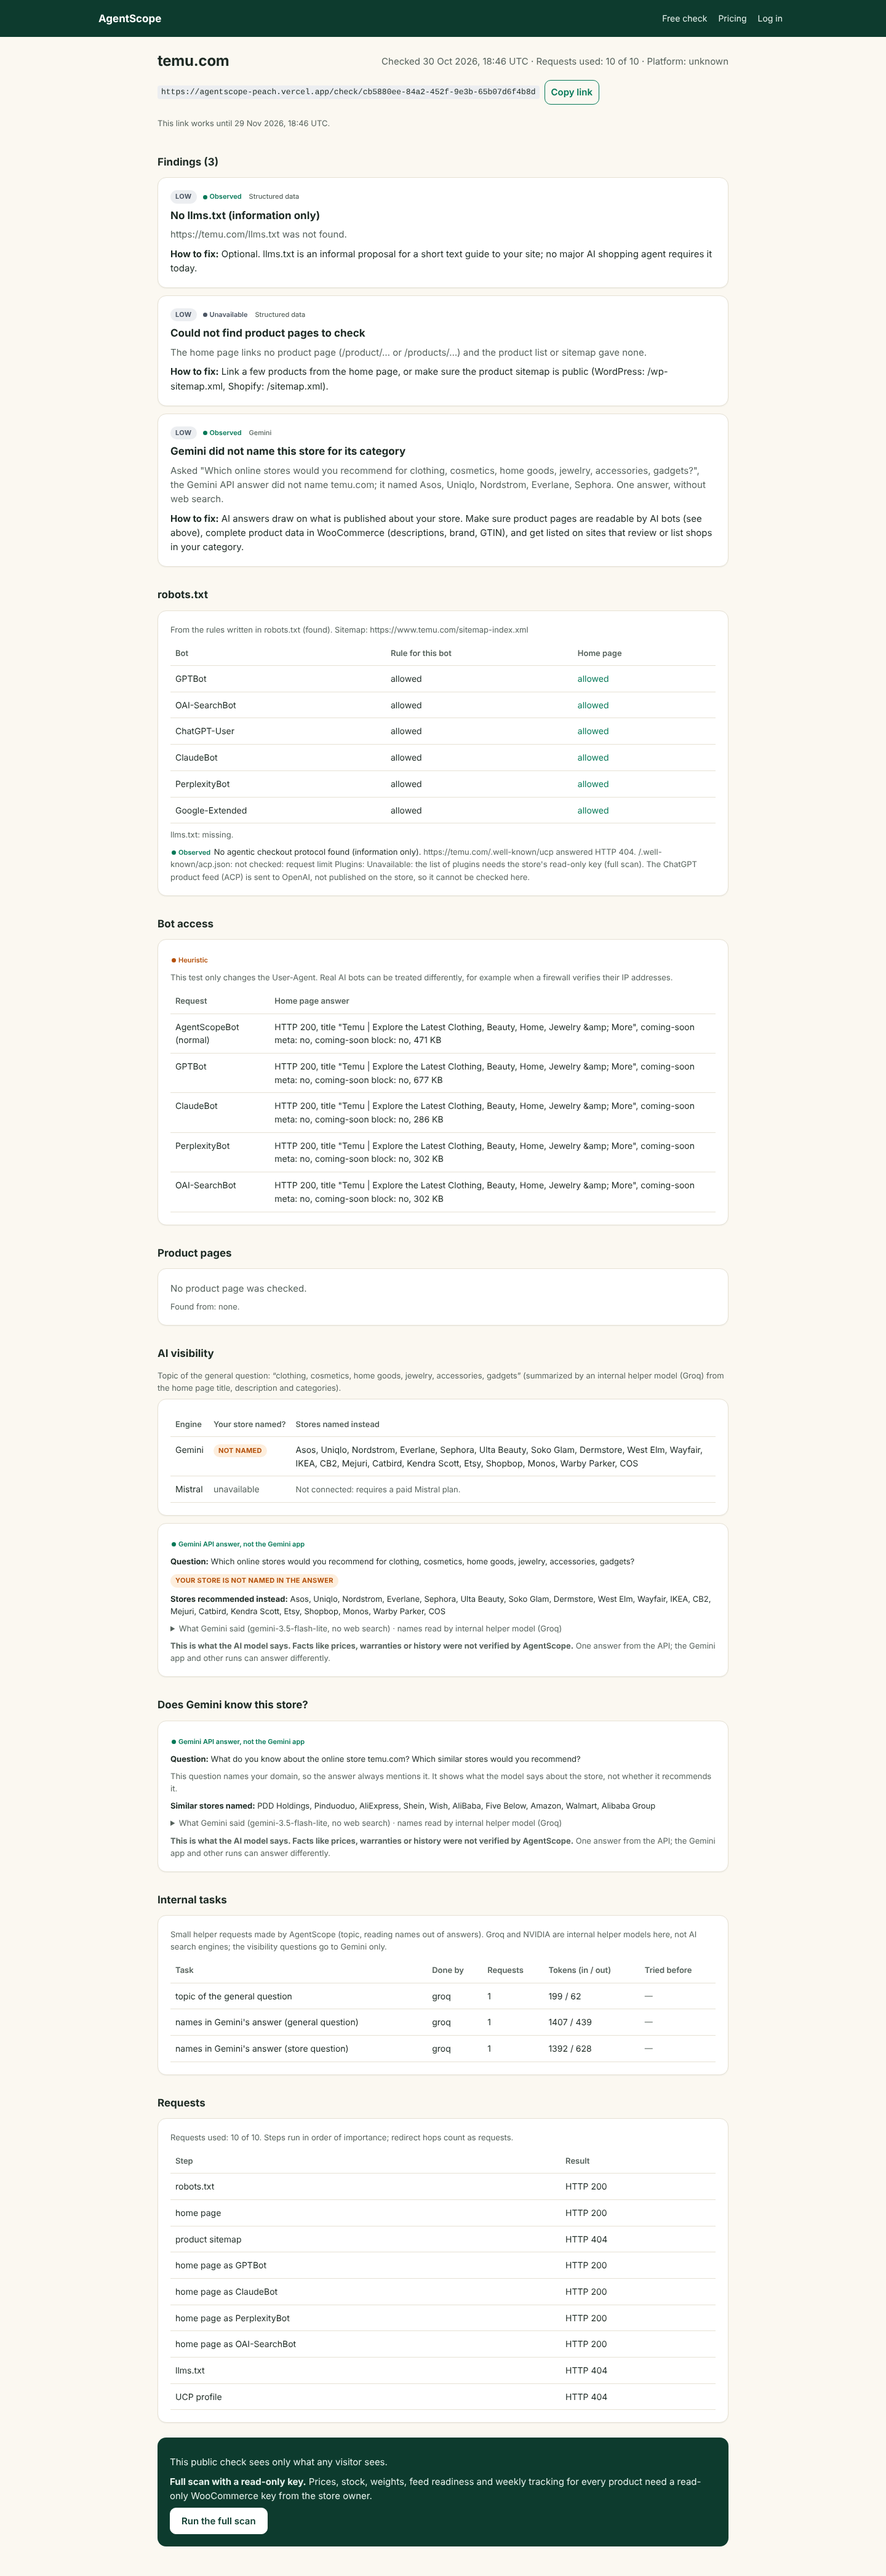
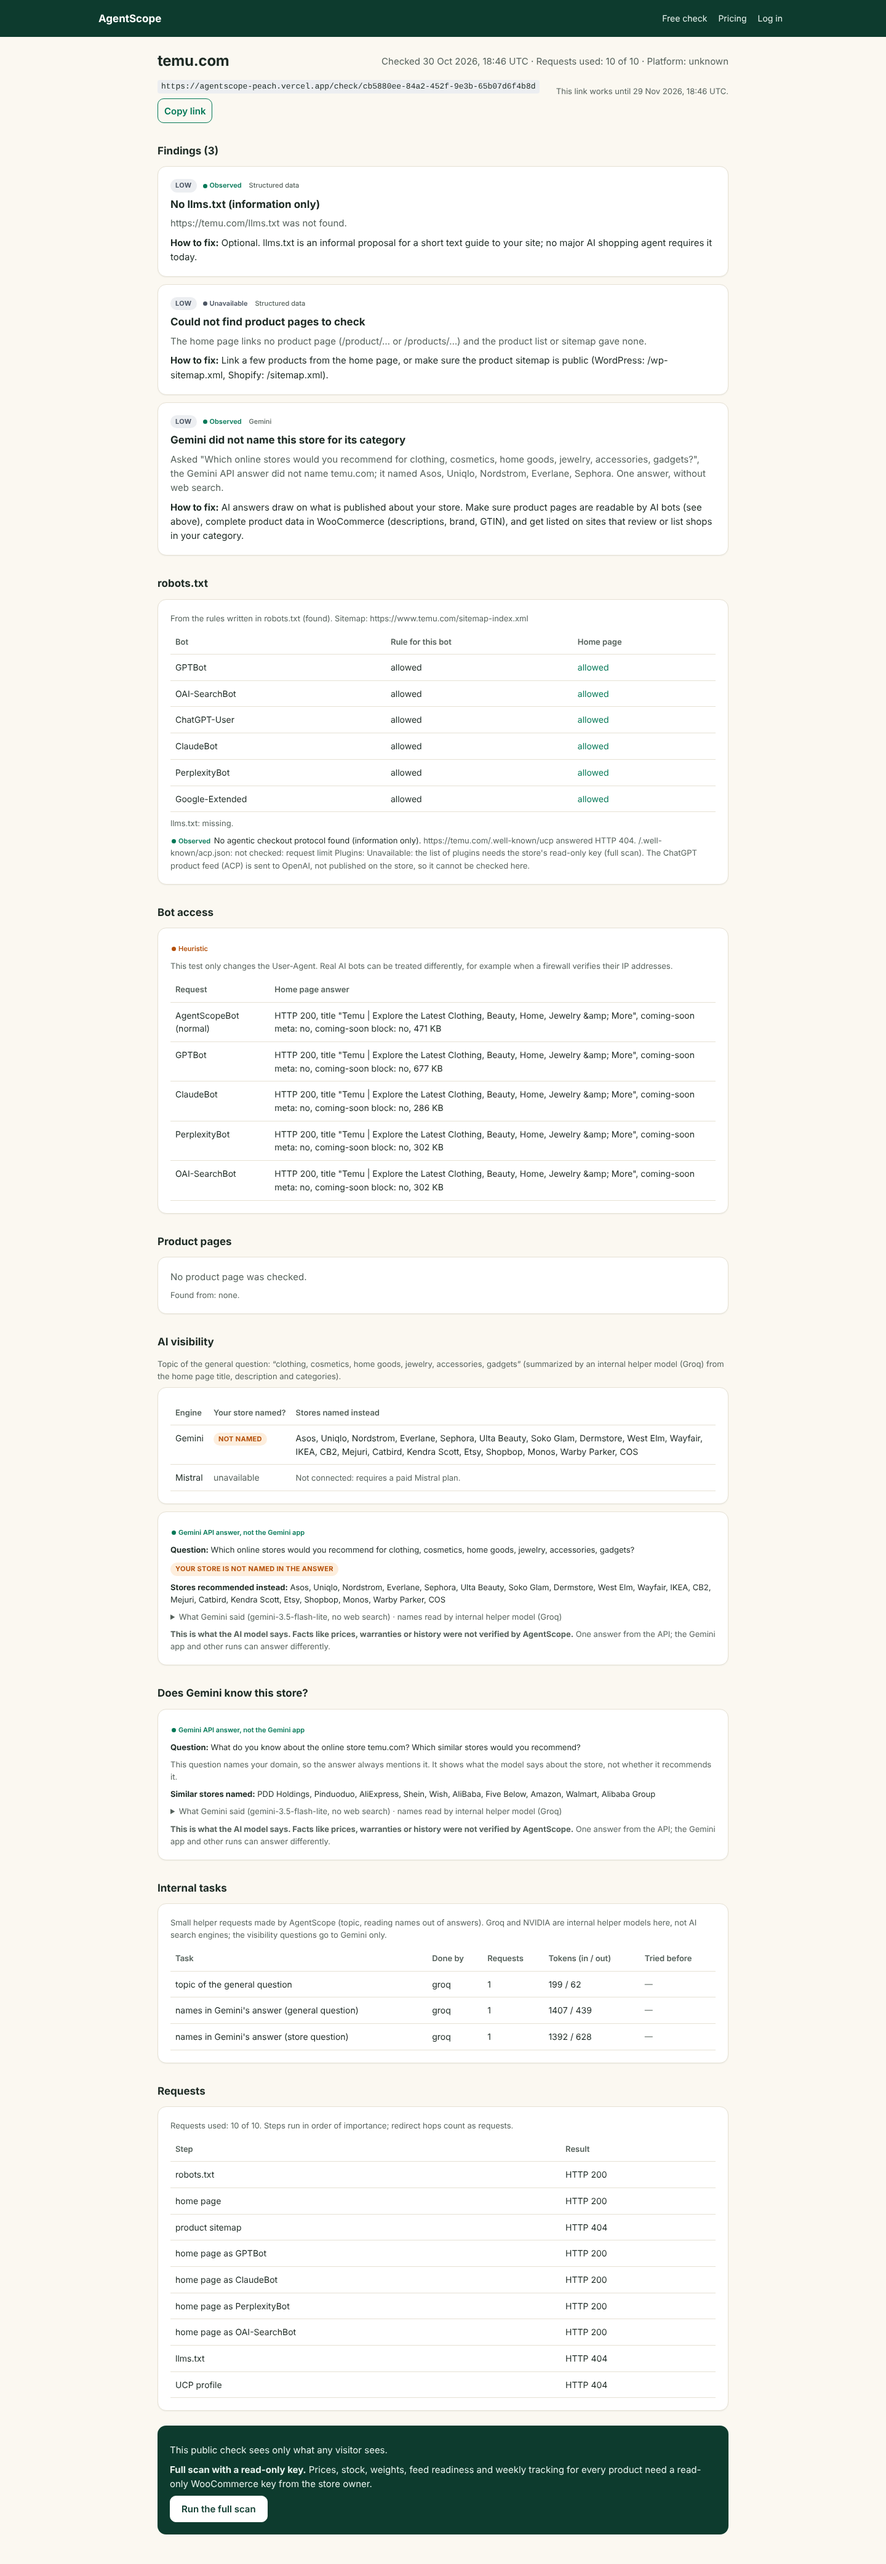
Milestone H: long URLs in guidance wrap (no sideways scroll on phones)
Claude-Session: https://claude.ai/code/session_01BVAPVtpTbBhARYkCAtLsMT

diff --git a/app/globals.css b/app/globals.css
@@ -332,3 +332,6 @@ code.inline { background: var(--slate-soft); padding: 1px 6px; border-radius: 4p
   .shell { background: linear-gradient(to right, var(--forest) 248px, transparent 248px); }
   [dir="rtl"] .shell { background: linear-gradient(to left, var(--forest) 248px, transparent 248px); }
 }
+/* Long URLs and codes in text wrap instead of widening the page */
+body { overflow-wrap: break-word; }
+.finding .guidance, .finding h3, .card p, .card li { overflow-wrap: anywhere; }
